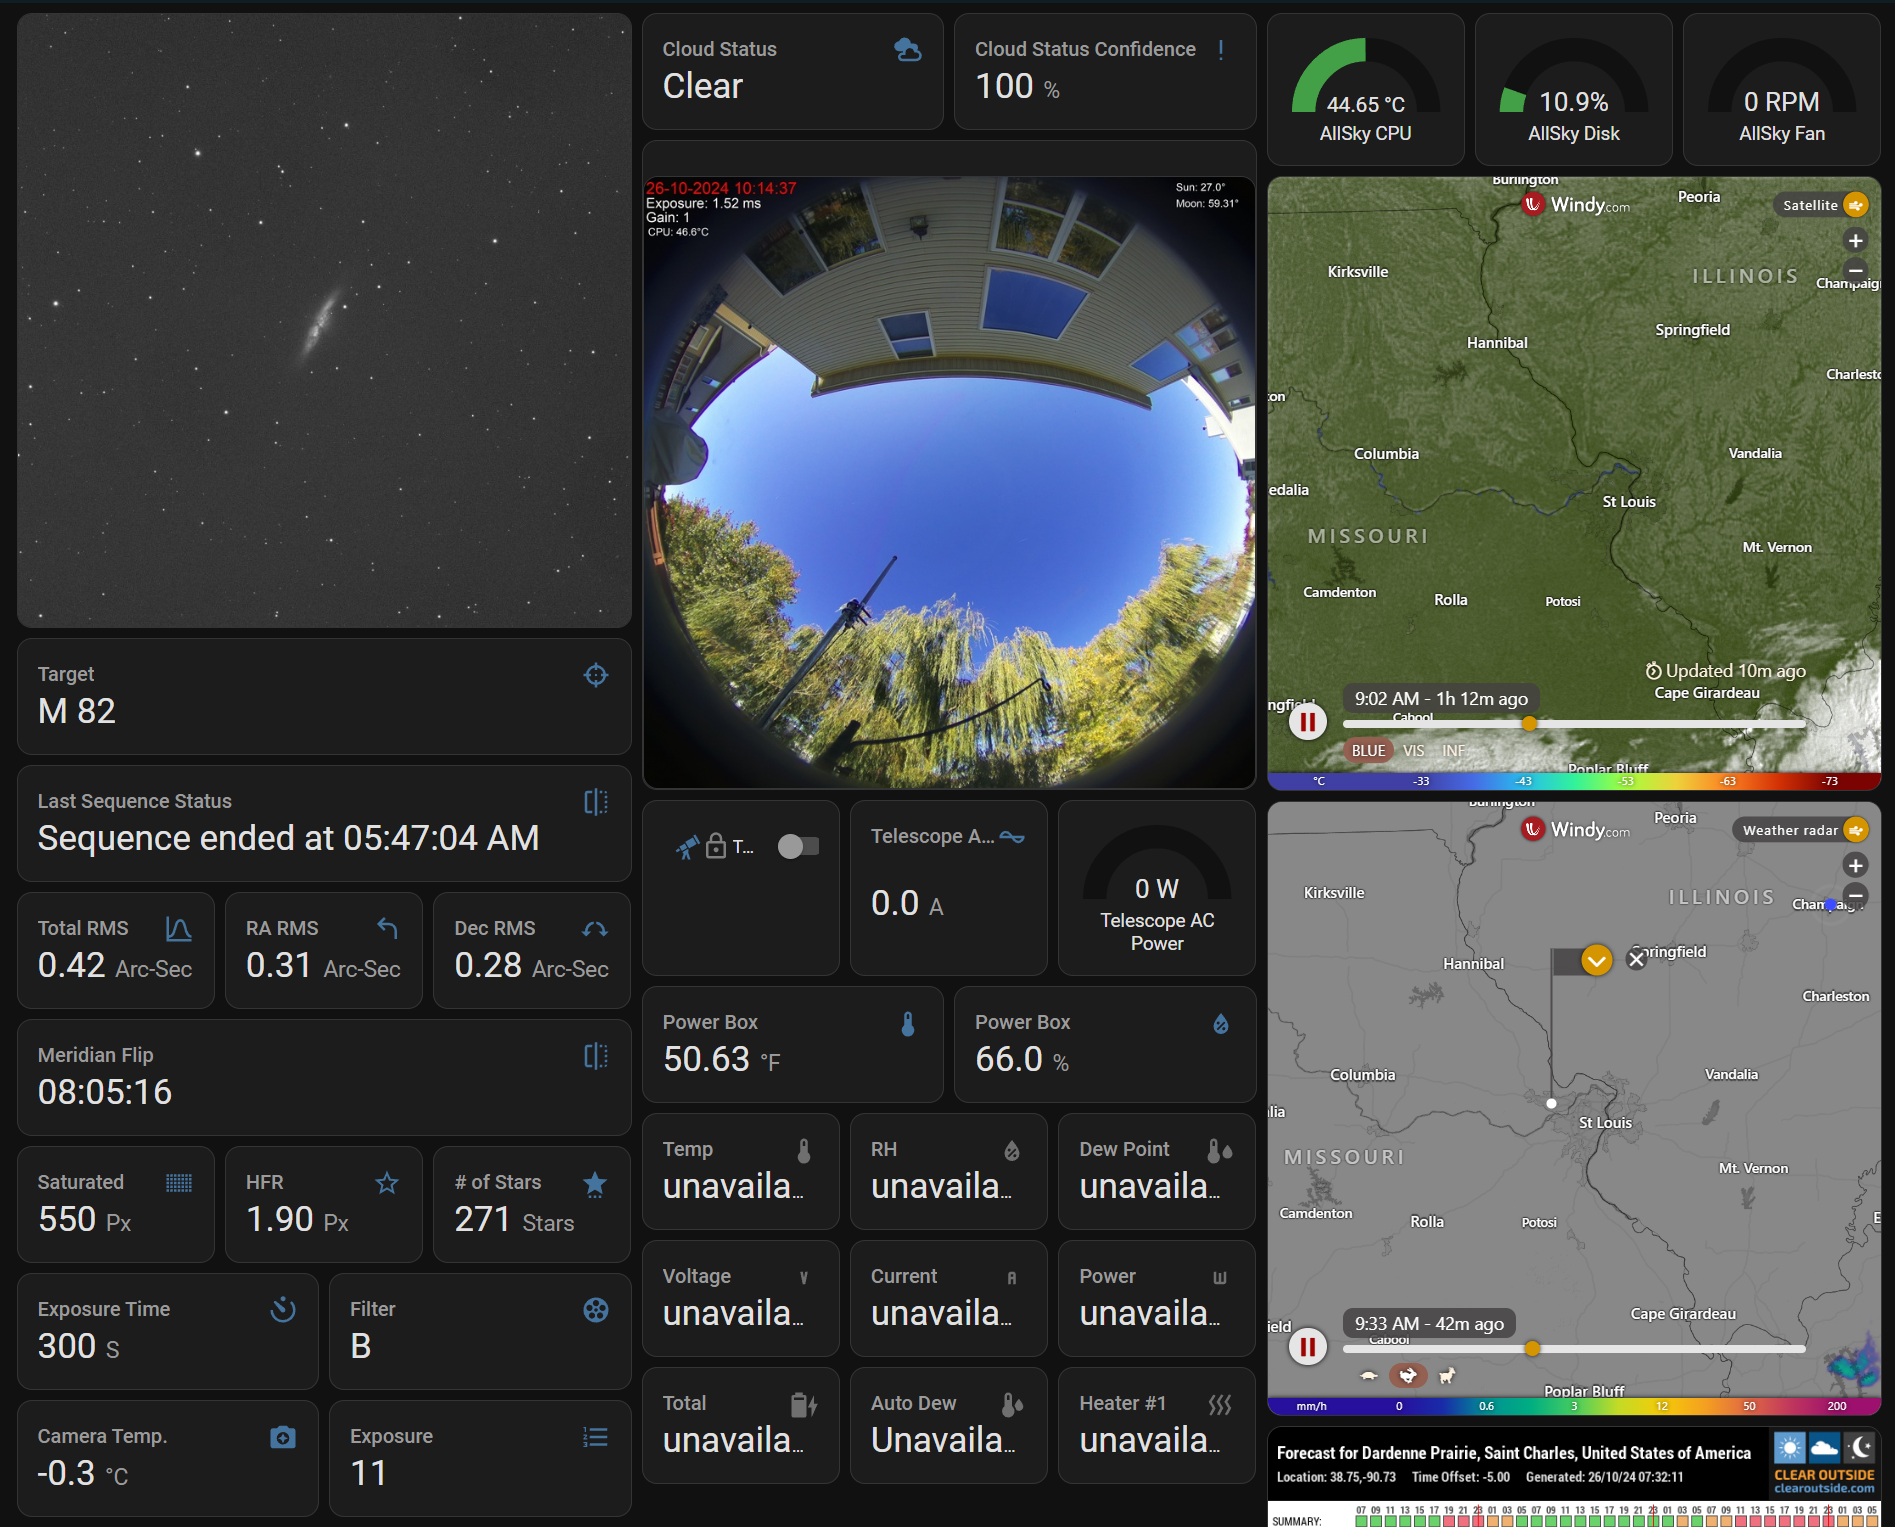
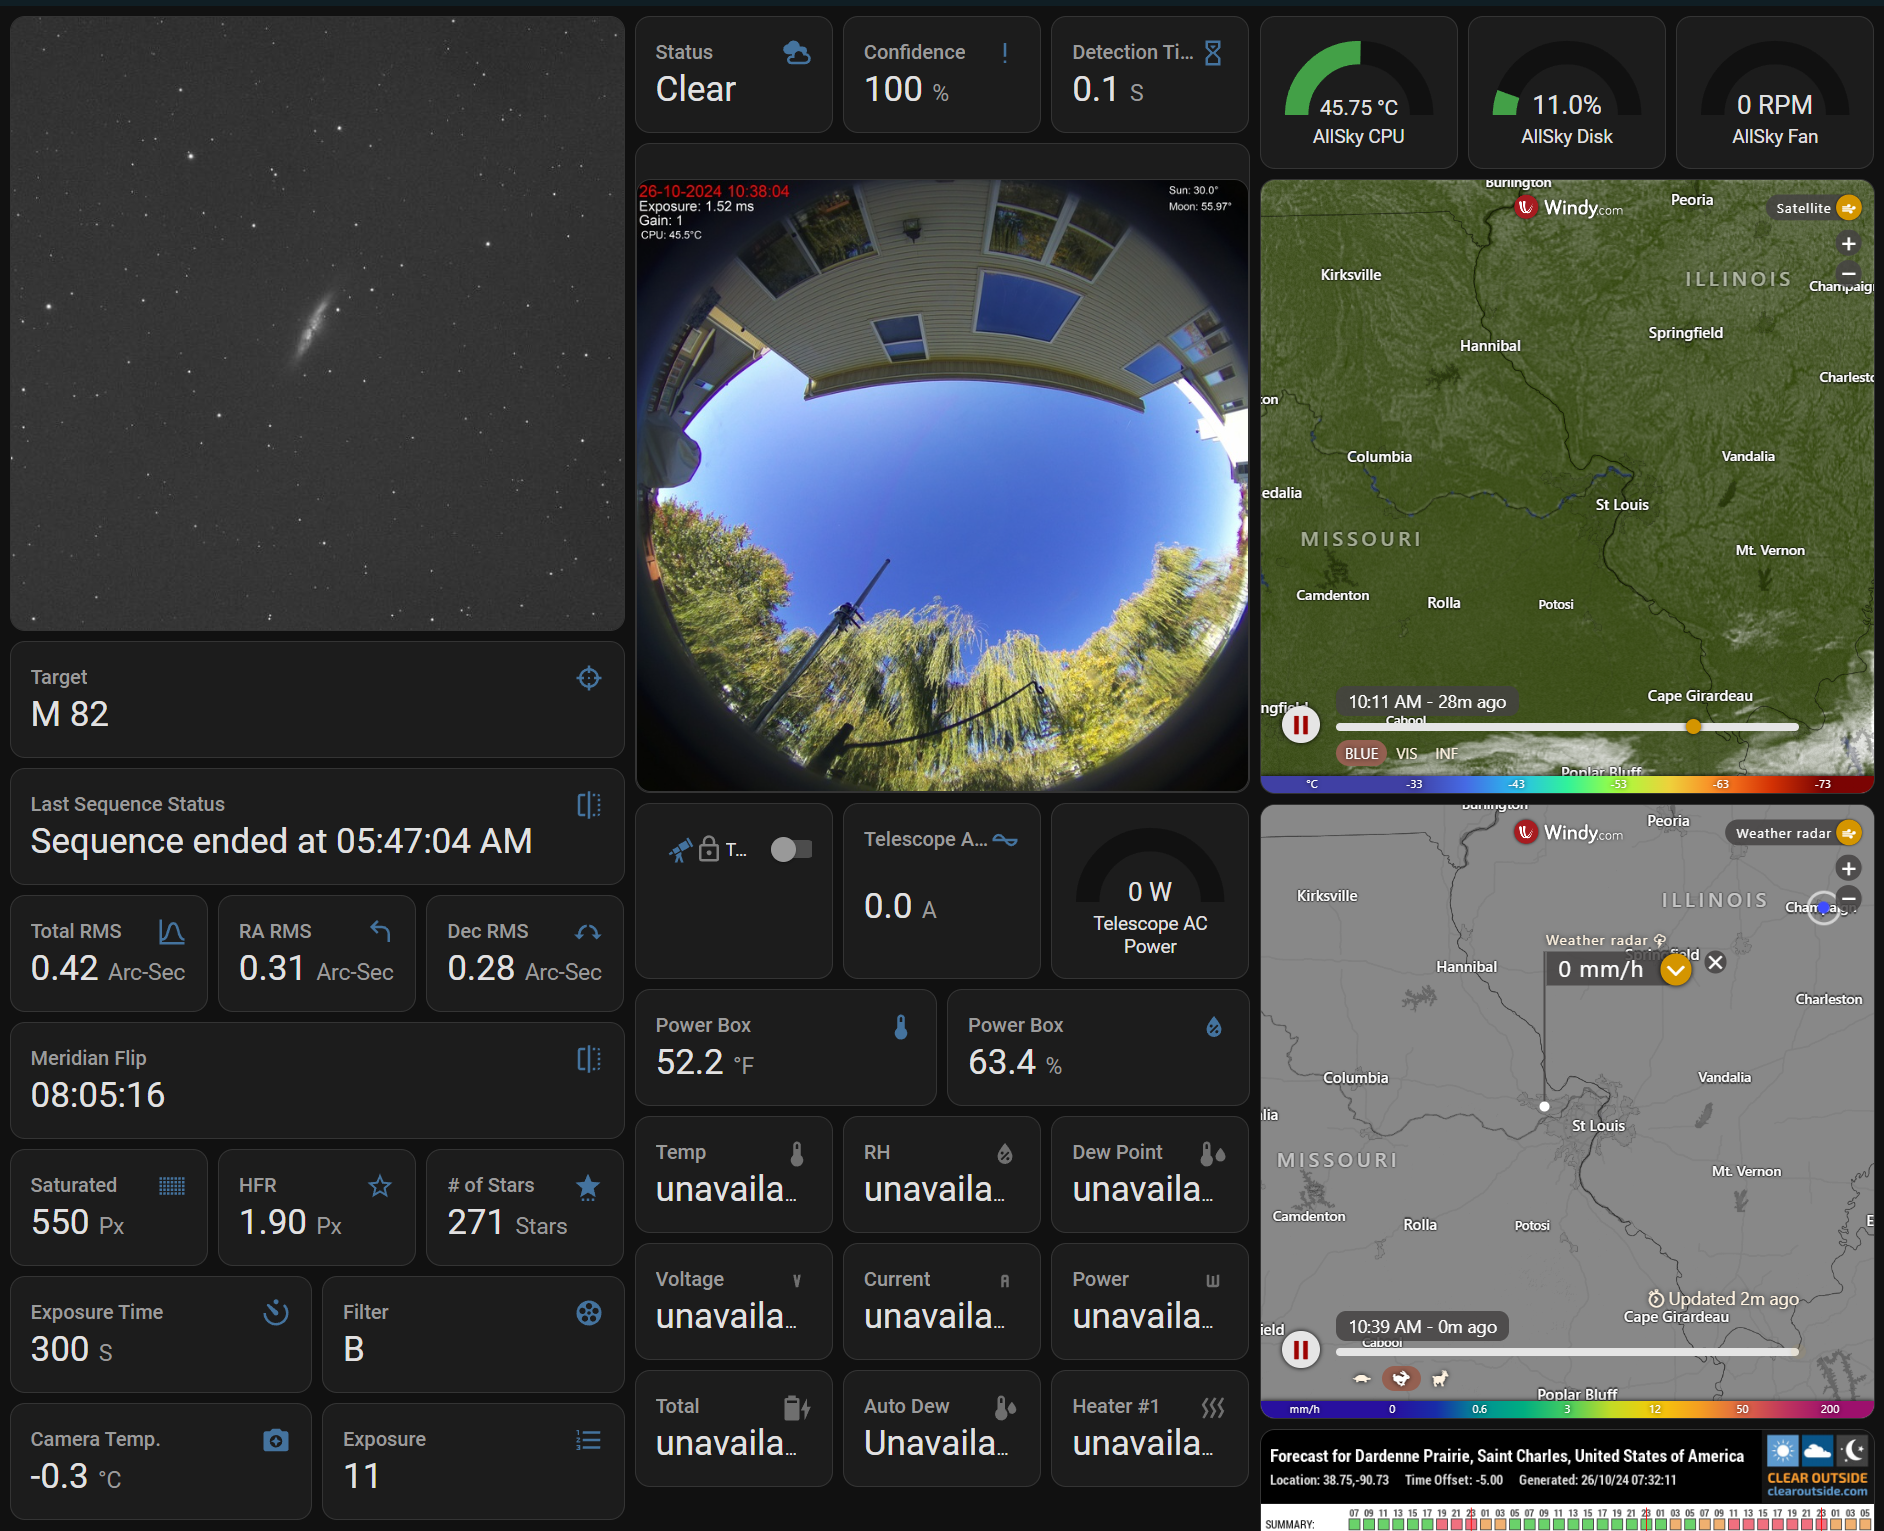
Add MQTT sensor for cloud detection time and update screenshots

diff --git a/readme.md b/readme.md
@@ -127,4 +127,12 @@ Add this to your MQTT sensor configuration
     state_topic: "Astro/Skytatus"
     value_template: "{{ value_json.confidence_score | float * 100 }}"
     unit_of_measurement: "%"
+
+- name: "Cloud Detection Time"
+    unique_id: dfhfyuyjghjhcjzf7
+    icon: mdi:exclamation
+    state_topic: "Astro/SimpleCloudDetect"
+    value_template: "{{ value_json['Detection Time (Seconds)'] }}"
+    unit_of_measurement: "S"
+
 ```
